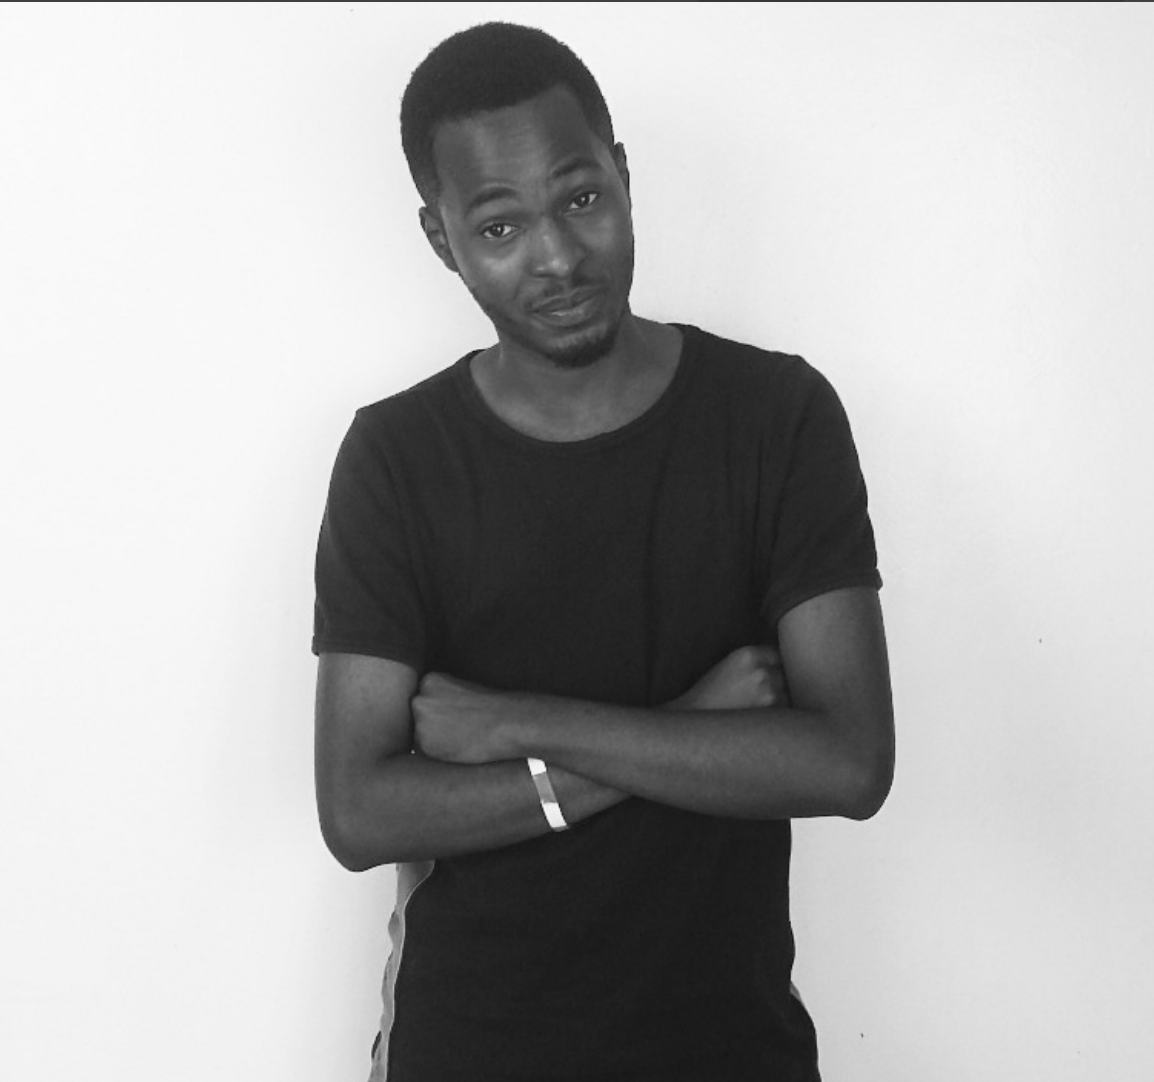
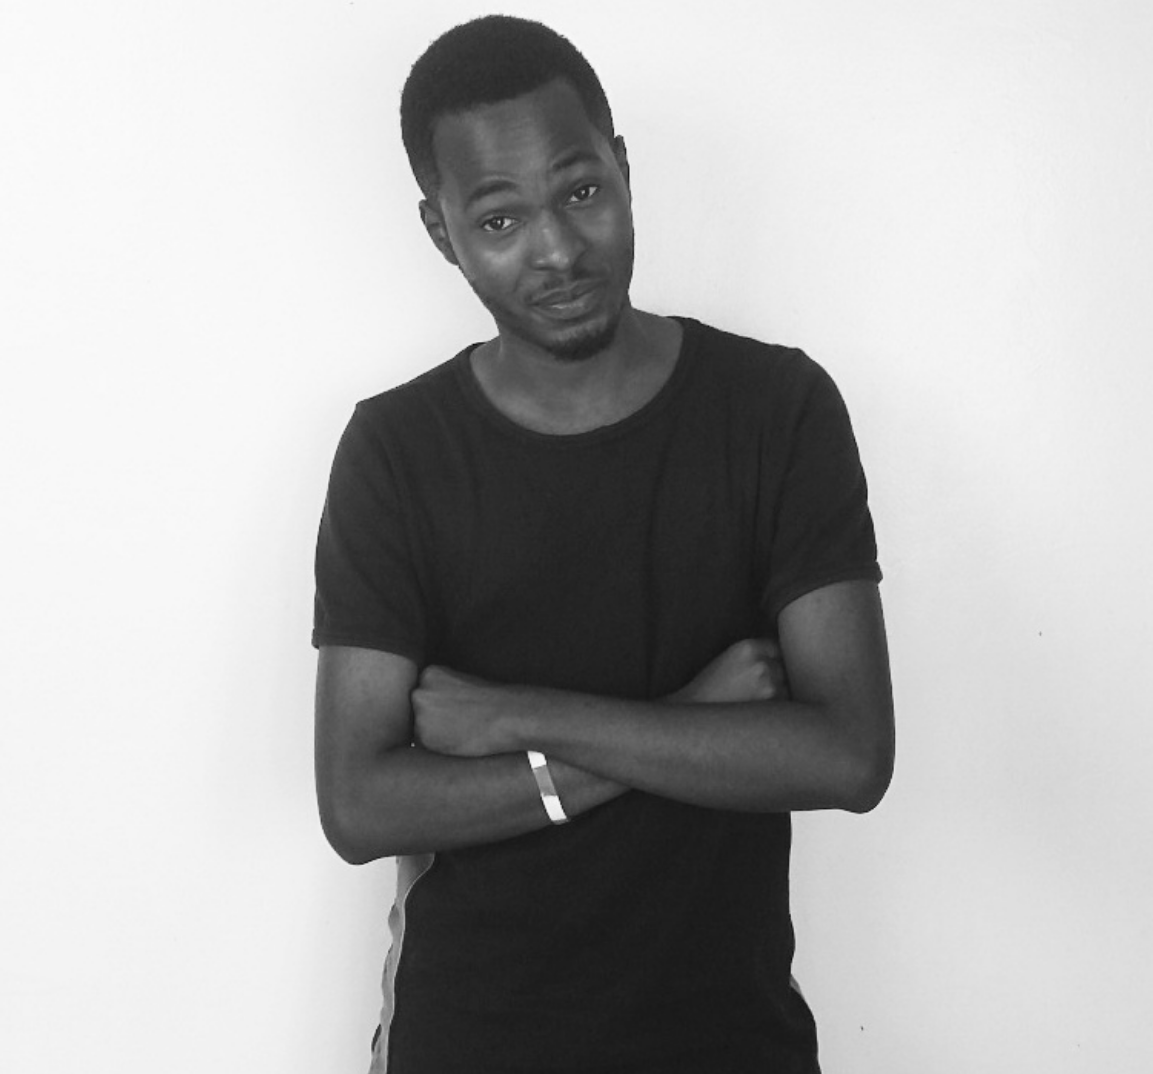
styled the intro

diff --git a/css/style.css b/css/style.css
@@ -20,6 +20,9 @@
   --fs-h2: 2.25rem;
   --fs-h3: 1.25rem;
   --fs-body: 1rem;
+
+  --bs: 0.25em 0.25em 0.75em rgba(0, 0, 0, .25),
+        0.125em 0.125em 0.25em rgba(0, 0, 0, .15);
 }
 
 @@media (min-width: 800px) {
@@ -39,12 +42,19 @@ body{
   color: var(--clr-dark);
   margin: 0;
   font-family: var(--ff-primary);
-  line-height: 1.6;
+  line-height: 1.5;
+}
+
+section{
+  padding: 5em 2em;
 }
 
 img{
   display: block;
   max-width: 100%;
+}
+strong {
+  font-weight: var(--fw-bold);
 }
 
 /********** typography*******/
@@ -55,5 +65,74 @@ h3{
   margin: 0;
 }
 h1 { font-size: var(--fs-h1)}
-h2 { font-size: var(--fs-h1)}
-h3 { font-size: var(--fs-h1)}
+h2 { font-size: var(--fs-h2)}
+h3 { font-size: var(--fs-h3)}
+
+.section__title{
+  margin-bottom: .25rem;
+}
+
+.section__title--intro{
+  font-weight: var(--fw-reg);
+}
+
+.section__title--intro strong{
+  display: block;
+}
+.section__subtitle{
+  margin: 0;
+  font-size: var(--fs-h3);
+}
+.section__subtitle--intro,
+.section__subtitle--about {
+  background: var(--clr-accent);
+  padding: .25em 1em;
+  font-family: var(--ff-secondary);
+  margin-bottom: 1em;
+}
+
+nav{
+  display: none;
+}
+
+/************ My intro section **********/
+.intro{
+  position: relative;
+}
+
+.intro__img{
+  box-shadow: var(--bs);
+}
+.section__subtitle--intro{
+  display: inline-block;
+}
+
+@media (min-width: 600px) {
+  .intro{
+    display: grid;
+    width: min-content;
+    margin: 0 auto;
+    grid-column-gap: 1em;
+    grid-template-areas:
+      "img title"
+      "img subtitle";
+    grid-template-columns: min-content max-content;
+  }
+
+  .intro__img{
+    grid-area: img;
+    min-width: 250px;
+    position: relative;
+    z-index: 2;
+  }
+
+  .section__subtitle--intro{
+    align-self: start;
+    grid-column: -1 / 1;
+    grid-row: 2;
+    text-align: right;
+    position: relative;
+    left: -1.5em;
+    width: calc(100% + 1.5em);
+  }
+}

diff --git a/index.html b/index.html
@@ -35,7 +35,7 @@
          Hi, I am <strong>Leo</strong>
        </h1>
        <p class="section__subtitle section__subtitle--intro">full-stack dev</p>
-       <img src="images/founder.JPG" alt="">
+       <img src="images/founder.JPG" alt="" class="intro__img">
      </section>
 
      <!-- My services Section--->
@@ -63,7 +63,7 @@
 
      <section class="about-me" id="about">
        <h2 class="section__title section__title--about">Who I am</h2>
-       <p class="section__subtitle section__subtitle--about"></p>
+       <p class="section__subtitle section__subtitle--about">Full-stack developer working remotely</p>
 
        <div class="about-me__body">
          <p>My name is <span>Leonard Kanyesigye.</span> I am a 26 year old currently living in Kampala, Uganda and working as a remote web developer. After majoring in Fine Art for 6 years in highschool, my love for creating beautiful experiences led me to the IT world as i saw it as opportunity to being able to bring my imaginations to life.</p>
